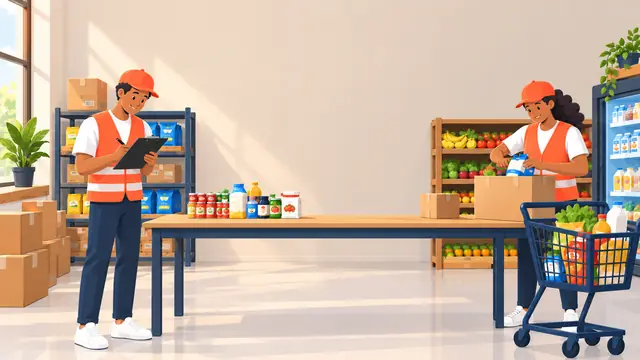
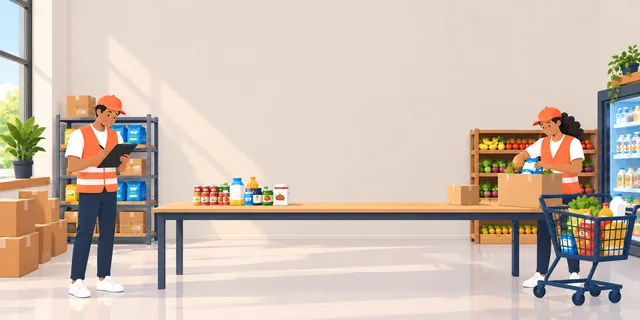
Hero: swap in the grocery warehouse team photo

diff --git a/index.html b/index.html
@@ -19,7 +19,7 @@
   <meta name="twitter:image" content="https://records-reserved.vercel.app/assets/img/icon-512.png">
   <meta name="theme-color" content="#1c1b19">
   <link rel="icon" type="image/png" href="assets/img/logo-black.png">
-  <link rel="preload" as="image" type="image/webp" href="assets/img/hero-1280.webp" imagesrcset="assets/img/hero-640.webp 640w, assets/img/hero-960.webp 960w, assets/img/hero-1280.webp 1280w, assets/img/hero-1672.webp 1672w" imagesizes="100vw" fetchpriority="high">
+  <link rel="preload" as="image" type="image/webp" href="assets/img/hero-1280.webp" imagesrcset="assets/img/hero-640.webp 640w, assets/img/hero-960.webp 960w, assets/img/hero-1280.webp 1280w, assets/img/hero-1774.webp 1774w" imagesizes="100vw" fetchpriority="high">
   <link rel="preconnect" href="https://fonts.googleapis.com">
   <link rel="preconnect" href="https://fonts.gstatic.com" crossorigin>
   <link href="https://fonts.googleapis.com/css2?family=IBM+Plex+Mono:wght@400;500&family=Instrument+Serif:ital@0;1&family=Manrope:wght@400;500;600;700&display=swap" rel="stylesheet">
@@ -80,9 +80,9 @@
     <section class="lp-hero" aria-labelledby="hero-title">
       <div class="lp-hero__bg" aria-hidden="true">
         <picture>
-          <source type="image/webp" srcset="assets/img/hero-640.webp 640w, assets/img/hero-960.webp 960w, assets/img/hero-1280.webp 1280w, assets/img/hero-1672.webp 1672w" sizes="100vw">
-          <source type="image/jpeg" srcset="assets/img/hero-640.jpg 640w, assets/img/hero-960.jpg 960w, assets/img/hero-1280.jpg 1280w, assets/img/hero-1672.jpg 1672w" sizes="100vw">
-          <img class="lp-hero__img" src="assets/img/hero-1280.jpg" width="1280" height="720" alt="" fetchpriority="high" decoding="async">
+          <source type="image/webp" srcset="assets/img/hero-640.webp 640w, assets/img/hero-960.webp 960w, assets/img/hero-1280.webp 1280w, assets/img/hero-1774.webp 1774w" sizes="100vw">
+          <source type="image/jpeg" srcset="assets/img/hero-640.jpg 640w, assets/img/hero-960.jpg 960w, assets/img/hero-1280.jpg 1280w, assets/img/hero-1774.jpg 1774w" sizes="100vw">
+          <img class="lp-hero__img" src="assets/img/hero-1280.jpg" width="1280" height="640" alt="" fetchpriority="high" decoding="async">
         </picture>
       </div>
 

diff --git a/index-1.html b/index-1.html
@@ -79,9 +79,9 @@
     <section class="hero hero--friendly hero--image">
       <div class="hero__bg" aria-hidden="true">
         <picture>
-          <source type="image/webp" srcset="assets/img/hero-640.webp 640w, assets/img/hero-960.webp 960w, assets/img/hero-1280.webp 1280w, assets/img/hero-1672.webp 1672w" sizes="100vw">
-          <source type="image/jpeg" srcset="assets/img/hero-640.jpg 640w, assets/img/hero-960.jpg 960w, assets/img/hero-1280.jpg 1280w, assets/img/hero-1672.jpg 1672w" sizes="100vw">
-          <img class="hero__bg-img" src="assets/img/hero-1280.jpg" alt="Records Reserved platform preview" width="1280" height="720" fetchpriority="high" decoding="async">
+          <source type="image/webp" srcset="assets/img/hero-640.webp 640w, assets/img/hero-960.webp 960w, assets/img/hero-1280.webp 1280w, assets/img/hero-1774.webp 1774w" sizes="100vw">
+          <source type="image/jpeg" srcset="assets/img/hero-640.jpg 640w, assets/img/hero-960.jpg 960w, assets/img/hero-1280.jpg 1280w, assets/img/hero-1774.jpg 1774w" sizes="100vw">
+          <img class="hero__bg-img" src="assets/img/hero-1280.jpg" alt="Records Reserved platform preview" width="1280" height="640" fetchpriority="high" decoding="async">
         </picture>
       </div>
       <div class="container hero__inner hero__inner--center hero__inner--on-image">
